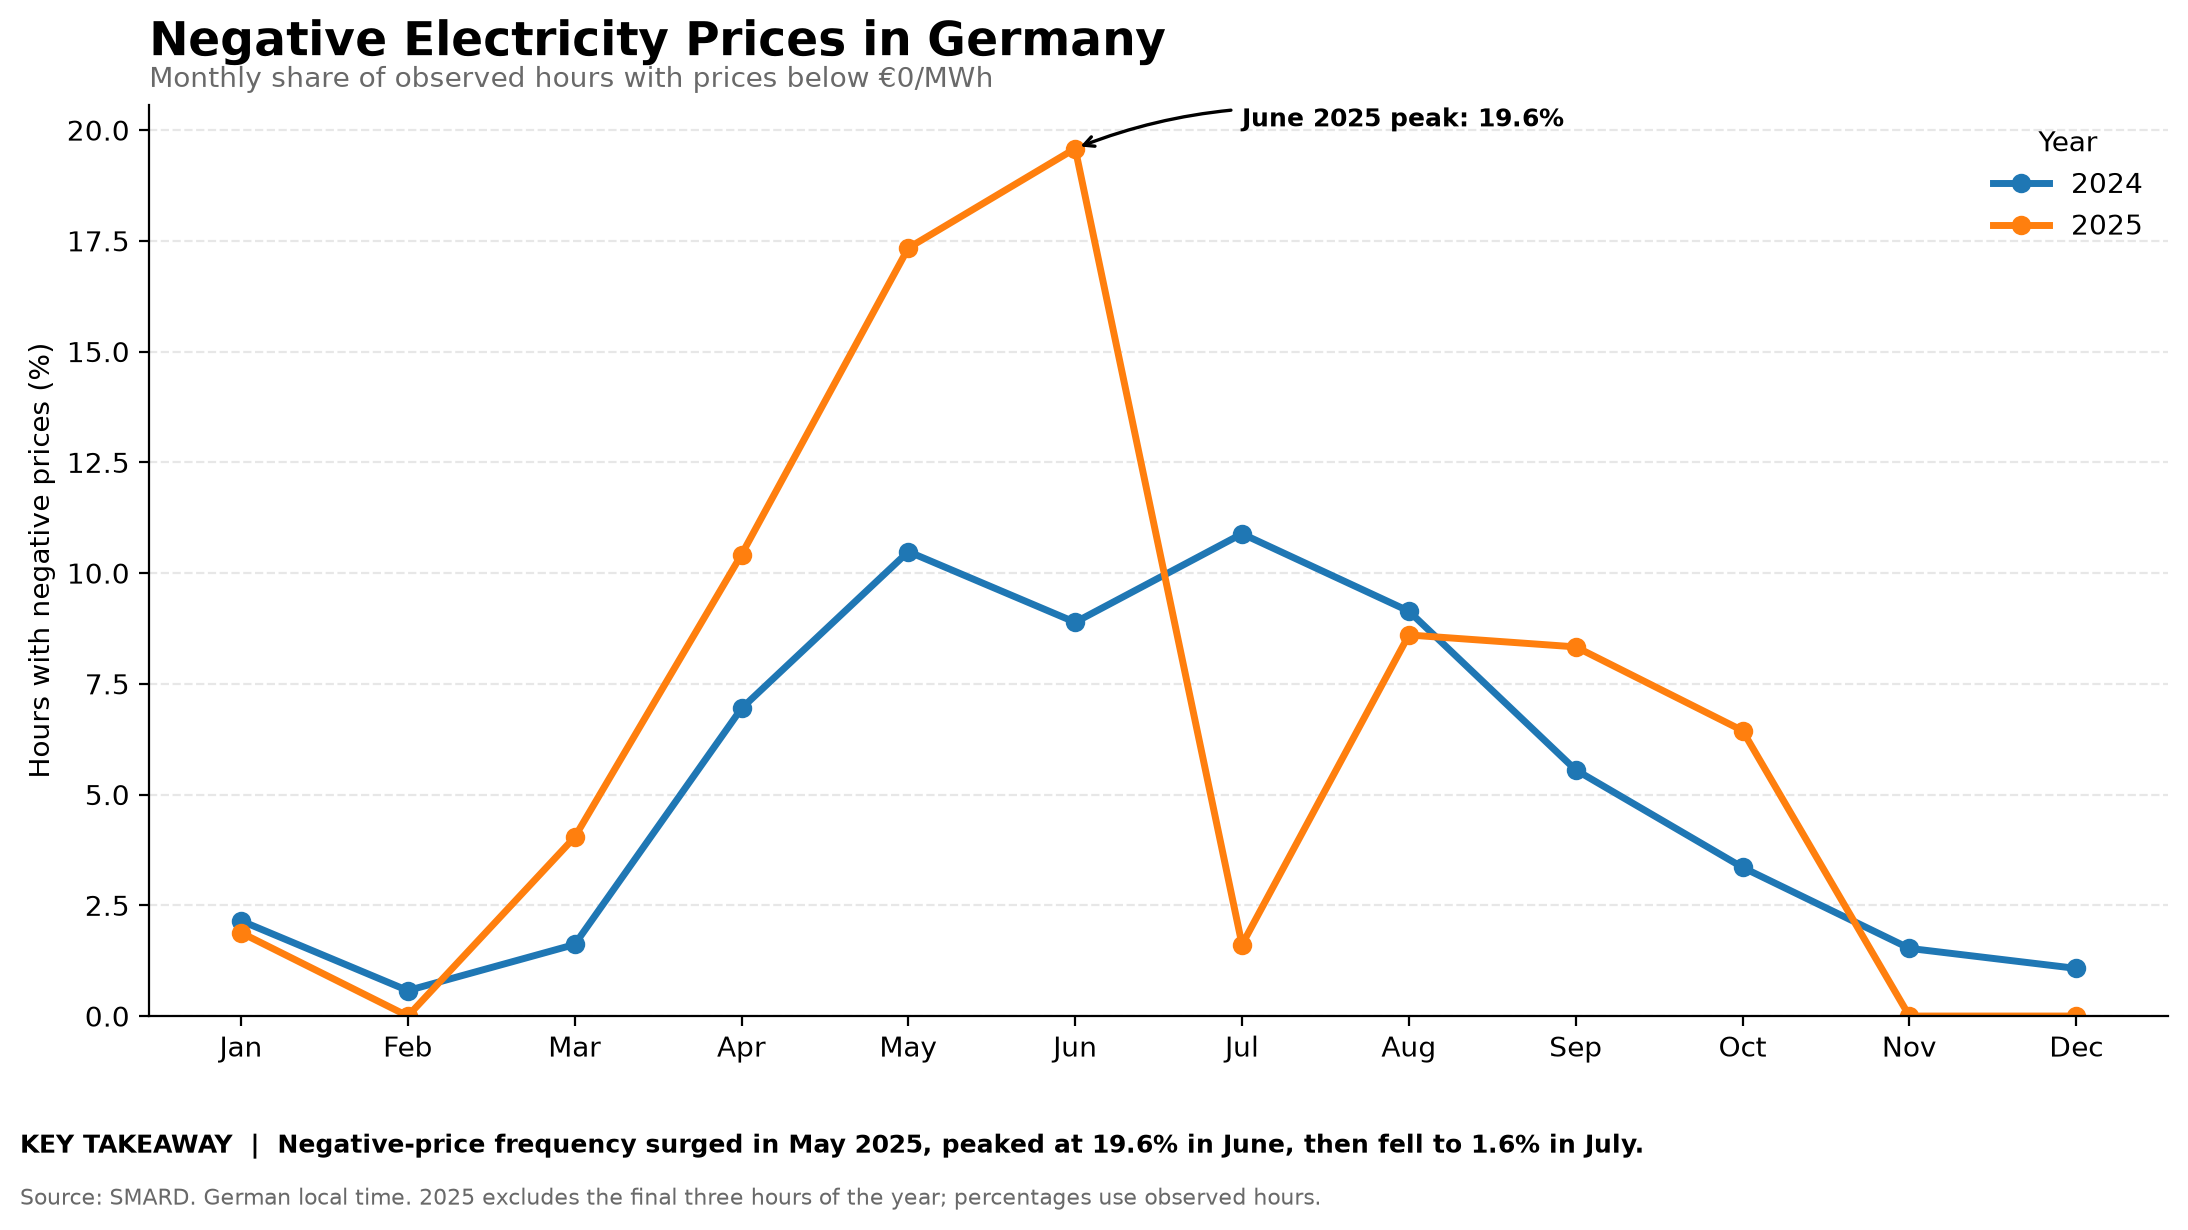
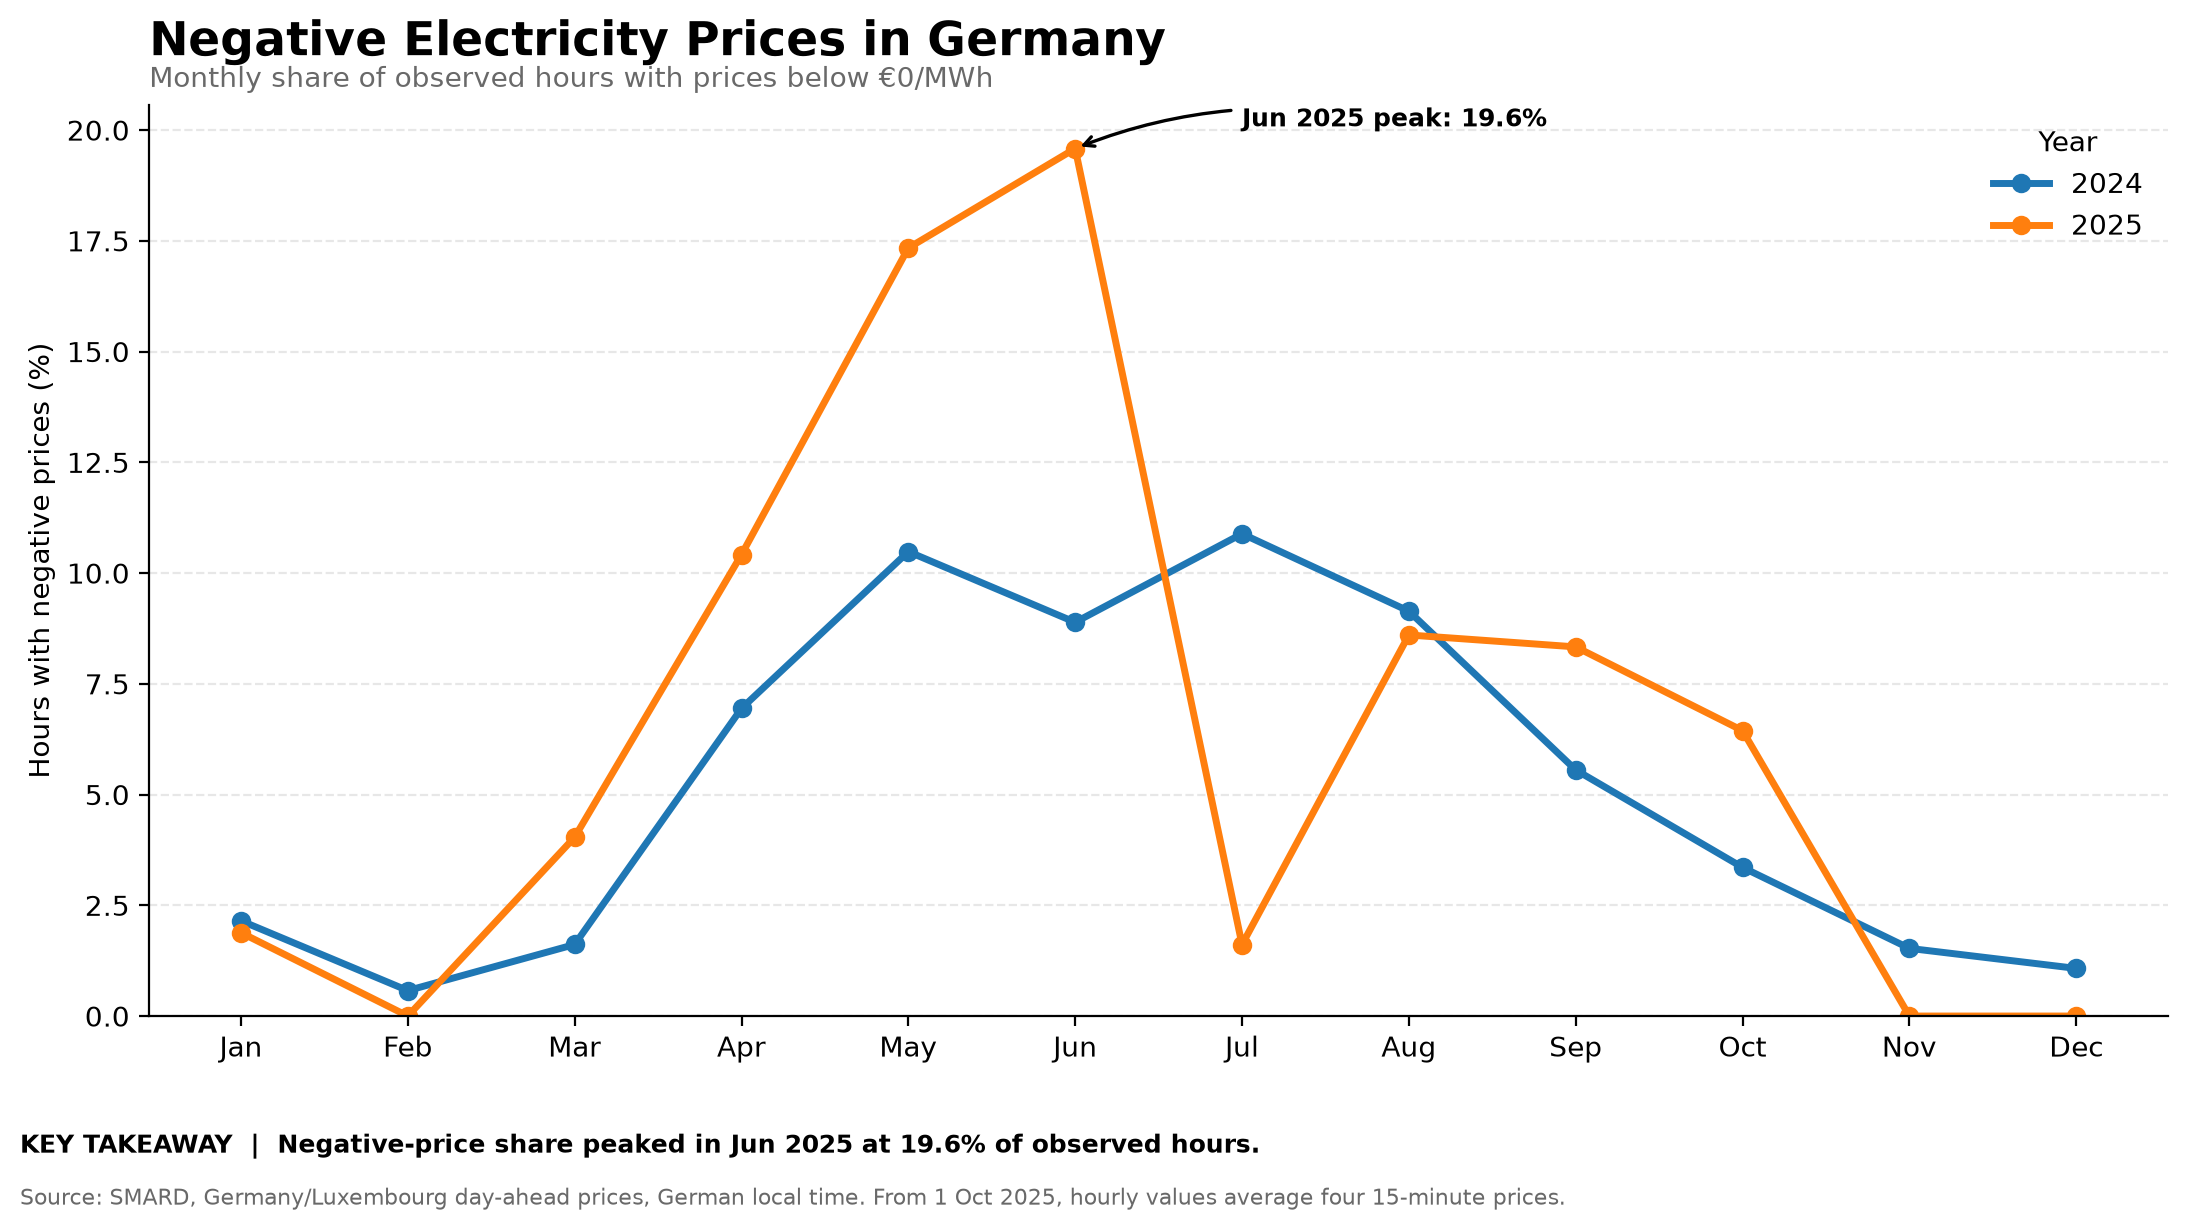
Compute frequency chart annotation and takeaway from data; fix footer

Changed region(s): [[0.1243, 0.9268, 0.7459, 0.9886], [0.5905, 0.0927, 0.7148, 0.1236]]

diff --git a/src/gridsignal/plot_negative_price_frequency.py b/src/gridsignal/plot_negative_price_frequency.py
@@ -75,13 +75,15 @@ def main() -> None:
                 label=str(year),
             )
 
-    # Highlight the highest monthly value in 2025.
-    june_2025 = plot_data.loc[6, 2025]
+    # Highlight the highest monthly value across both years.
+    peak = monthly.loc[monthly["negative_price_pct"].idxmax()]
+    peak_month = int(peak["month"])
+    peak_label = f"{month_labels[peak_month - 1]} {int(peak['year'])}"
 
     ax.annotate(
-        f"June 2025 peak: {june_2025:.1f}%",
-        xy=(6, june_2025),
-        xytext=(7.0, june_2025 + 0.5),
+        f"{peak_label} peak: {peak['negative_price_pct']:.1f}%",
+        xy=(peak_month, peak["negative_price_pct"]),
+        xytext=(peak_month + 1, peak["negative_price_pct"] + 0.5),
         fontsize=9,
         fontweight="bold",
         arrowprops={
@@ -121,8 +123,8 @@ def main() -> None:
     fig.text(
         0.01,
         0.055,
-        "KEY TAKEAWAY  |  Negative-price frequency surged in May 2025, "
-        "peaked at 19.6% in June, then fell to 1.6% in July.",
+        f"KEY TAKEAWAY  |  Negative-price share peaked in {peak_label} "
+        f"at {peak['negative_price_pct']:.1f}% of observed hours.",
         fontsize=9,
         fontweight="bold",
     )
@@ -130,8 +132,8 @@ def main() -> None:
     fig.text(
         0.01,
         0.015,
-        "Source: SMARD. German local time. 2025 excludes the final "
-        "three hours of the year; percentages use observed hours.",
+        "Source: SMARD, Germany/Luxembourg day-ahead prices, German local time. "
+        "From 1 Oct 2025, hourly values average four 15-minute prices.",
         fontsize=8,
         color="dimgray",
     )
